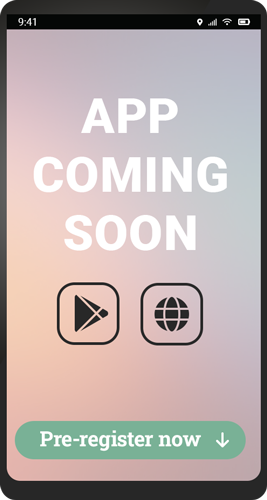
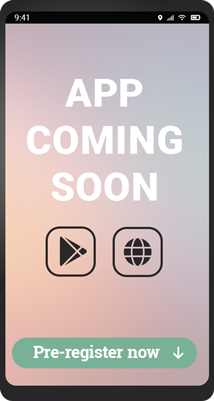
Add files via upload

diff --git a/index.html b/index.html
@@ -3,17 +3,17 @@
   <head>
     <meta charset="utf-8">
     <meta name="viewport" content="width=device-width, initial-scale=1">
-    <title>Bootstrap demo</title>
+    <title>Fitdate.app - date single athletes</title>
     <link href="https://cdn.jsdelivr.net/npm/bootstrap@5.2.3/dist/css/bootstrap.min.css" rel="stylesheet" integrity="sha384-rbsA2VBKQhggwzxH7pPCaAqO46MgnOM80zW1RWuH61DGLwZJEdK2Kadq2F9CUG65" crossorigin="anonymous">
     <link rel="stylesheet" type="text/css" href="style.css">
     <link rel="preconnect" href="https://fonts.googleapis.com"><link rel="preconnect" href="https://fonts.gstatic.com" crossorigin><link href="https://fonts.googleapis.com/css2?family=Roboto+Slab:wght@100;200;300;400;500;600;700;800;900&family=Roboto+Slab:wght@100;200;300;400;500;600;700;800;900&family=Roboto:ital,wght@0,100;0,300;0,400;0,500;0,700;0,900;1,100;1,300;1,400;1,500;1,700;1,900&display=swap" rel="stylesheet">
     <script src="https://kit.fontawesome.com/ab287e8f16.js" crossorigin="anonymous"></script>
   </head>
   <body>
-    <header>
-      <nav class="navbar navbar-dark bg-secondary" id="secondary-nav">
+    <header class="sticky-top">
+      <nav class="navbar navbar-dark bg-secondary py-1" id="secondary-nav">
         <div class="container d-flex justify-content-center">
-              <a class="nav-link" href="#pre-register">Pre-register now and get Fitdate free for life</a>
+              <a class="nav-link" href="#pre-register">Pre-register now: get Fitdate forever free</a>
         </div>
       </nav>
       <nav class="navbar navbar-expand-lg navbar-dark bg-primary sticky-top" id="primary-nav">
@@ -23,15 +23,15 @@
             <span class="navbar-toggler-icon"></span>
           </button>
           <div class="collapse navbar-collapse" id="navbarSupportedContent">
-            <ul class="navbar-nav ms-auto mb-2 mb-lg-0 ">
+            <ul class="navbar-nav ms-auto my-0">
               <li class="nav-item" id="primary-nav-pre-register">
                 <a class="nav-link bg-secondary btn" href="#pre-register">Pre-register</a>
               </li>
               <li class="nav-item" id="primary-nav-about">
-                <a class="nav-link" href="#about">About</a>
+                <a class="nav-link" href="#more-info">More info</a>
               </li>
               <li class="nav-item">
-                <a class="nav-link" href="#contact" id="primary-nav-contact">Contact</a>
+                <a class="nav-link" href="mailto:info@zeerzout.nl" id="primary-nav-contact">Contact</a>
               </li>
             </ul>
           </div>
@@ -40,30 +40,30 @@
     </header>
     <main>
       <section id="hero">
-        <div class="container-xl col-xxl-8 py-5">
-          <div class="row flex-lg-row-reverse align-items-center g-5">
-            <div class="col-10 col-sm-8 col-lg-6">
-              <a href="#pre-register"><img src="smartphone.png" class="d-block mx-lg-auto img-fluid" alt="smartphone app" loading="lazy" id="hero-img-smartphone"></a>
-            </div>
-            <div class="col-lg-6">
+        <div class="container py-5 px-3">
+          <div class="row d-flex flex-row align-items-center justify-content-center g-5">
+            <div class="col-lg-8 col-md-8 col-sm-12 col-xs-12">
               <h1 class="display-5 fw-bold lh-1 mb-3">Date single athletes</h1>
-              <p class="lead">Running, road cyling, padel, fitness, walking, dance & more. Explore profiles online & plan a fitdate.</p>
-              <div class="d-grid gap-2 d-md-flex justify-content-md-start">
+              <p class="lead">Running, road cyling, padel, fitness, walking, dance & more.<br> Explore profiles online & plan a fitdate.</p>
+              <div class="d-grid gap-2 d-md-flex justify-content-md-start" id="hero-buttons">
                <button type="button" class="btn btn-secondary btn-lg px-4" onclick="window.location.href='#pre-register';">Pre-register now</button>
                <button type="button" class="btn btn-outline-white btn-lg px-4" onclick="window.location.href='#more-info';">More info</button>
               </div>
+            </div>
+            <div class="col-lg-4 col-md-4 col-sm-12 col-xs-12 p-0 d-flex justify-content-center">
+              <a href="#pre-register"><img src="smartphone.png" class="" alt="smartphone app" loading="lazy" id="hero-img-smartphone"></a>
             </div>
           </div>
         </div>
       </section>
       <section id="pre-register">
-        <div class="container d-flex flex-column col-5">
-          <div id="pre-registration-offer-wrapper" class="d-flex flex-column align-items-center p-4 rounded">
-            <div id="offer-content" class="text-center">
+        <div class="container d-flex justify-content-center py-3">
+          <div id="pre-registration-offer-wrapper" class="m-2 p-4 rounded col-lg-8 col-md-8 col-sm-12 col-xs-12">
+            <div id="offer-content" class="row text-center">
               <h3 class="text-primary font-weight-bold">Limited time offer</h3>
               <h2 class="font-roboto-slab">Pre-register before May 31st 2023</h2>
             </div>
-            <div class=" bg-primary mt-4 p-5 rounded" id="pre-register">
+            <div class="row bg-primary mt-4 p-5 rounded" id="pre-register-form">
               <form id="form-pre-register">
                 <h3 class="text-white font-roboto-slab">Enjoy Fitdate.app free for life</h3>
                 <div class="row">
@@ -83,21 +83,28 @@
         </div>
       </section>
       <section id="more-info">
-        <div class="container d-flex flex-row no-wrap py-5 px-0">
-          <div class="col-md-4 mx-3">
-            <i class="fa-solid fa-circle-info"></i>
-            <h3 class="mt-3">Features</h3>
-            <p>Fitdate.app will help you find love, while also focussing on your shared love for sports. You can for instance filter on rock climbers, to find better matches. Imagine Tinder, but focussed on fit singles with a passion they want to share with each other.</p>
+        <div class="container px-4 overflow-hidden">
+          <div class="row d-flex flex-row justify-content-center">
+            <div class="col-lg-3 col-md-10 col-sm-10 m-2 px-4 pt-4 pb-2 border-light rounded">
+              <i class="fa-solid fa-circle-info"></i>
+              <h3 class="mt-3">Features</h3>
+              <p>Fitdate.app will help you find love, while also focussing on a shared love for sports. Filter on a sport, e.g. rock climbing, to find your match. Like Tinder, but for fit singles with a passion they want to share with each other.</p>
+            </div>
+            <div class="col-lg-3 col-md-10 col-sm-10 m-2 px-4 pt-4 pb-2 border-light rounded">
+              <i class="fa-brands fa-google-play"></i>
+              <h3 class="mt-3">App</h3>
+              <p>Our app will initially launch as a web app. After that we intend to develop an Android app. Next up will be Apple. Follow us to keep track of development updates. This way you'll be among the first to set up fun fitdates.</p>
+            </div>
+            <div class="col-lg-3 col-md-10 col-sm-10 m-2 px-4 pt-4 pb-2 border-light rounded">
+              <i class="fa-solid fa-tag"></i>
+              <h3 class="mt-3">Pricing</h3>
+              <p>We're still in early development, so we're not sure about price yet. We focus on creating awesome experiences first. We'll go to paid plans when our community is large enough. Make sure you pre-register to ensure your lifetime-free plan.</p>
+            </div>
           </div>
-          <div class="col-md-4 mx-3">
-            <i class="fa-brands fa-google-play"></i>
-            <h3 class="mt-3">App</h3>
-            <p>Our app will initially launch as a web app. After that we intend to develop an app for Android users. Next on our road map will be Apple users. Follow us to keep track of development updates. This way you'll be among the first to set up fun fitdates.</p>
-          </div>
-          <div class="col-md-4 mx-3">
-            <i class="fa-solid fa-tag"></i>
-            <h3 class="mt-3">Pricing</h3>
-            <p>We're still in early-stage development, so we're not sure about our pricing model yet. We're focussing on creating awesome experiences first. We will switch to paid plans when our community is large enough. So make sure you pre-register, to ensure your lifetime-free plan for Fitdate.app.</p>
+          <div class="row">
+            <div class="column py-4">
+              <p class="m-0 text-center" id="contact">Heb jij een goed idee voor Fitdate.app? Dat kan van alles zijn. Of gewoon een vraag? <a href="mailto:info@zeerzout.nl">Stuur ons een mail</a>.</p>
+            </div>
           </div>
         </div>
       </section>
@@ -106,7 +113,6 @@
         <div class="container py-3" id="copyright-area">
           <a href="https://www.zeerzout.nl/" target="_blank" class="m-0">© Copyright Zeer Zout 2022</a>
         </div>
-      </div>
       </footer>
     <script src="https://cdn.jsdelivr.net/npm/bootstrap@5.2.3/dist/js/bootstrap.bundle.min.js" integrity="sha384-kenU1KFdBIe4zVF0s0G1M5b4hcpxyD9F7jL+jjXkk+Q2h455rYXK/7HAuoJl+0I4" crossorigin="anonymous"></script>
   </body>

diff --git a/style.css b/style.css
@@ -1,9 +1,4 @@
 /* GENERAL ELEMENTS */
-h1, h2, h3, h4, h5, h6, p {
-    font-family: Roboto;
-    color: #464646 !important;
-}
-
 .container {
     max-width: 1100px;
 }
@@ -39,7 +34,25 @@ h1, h2, h3, h4, h5, h6, p {
     border: 2px solid white;
 }
 
+.border-light {
+    border: 1px solid #f9d0de !important;
+}
+
 /* TYPOGRAFIE */
+h1, h2, h3, h4, h5, h6, p {
+    font-family: Roboto;
+    color: #3b3b3b !important;
+}
+
+main a {
+    color:  #963254 !important;
+    text-decoration: none;
+    font-weight: 600;
+    transition: all 300ms;
+}
+main a:hover {
+    color:  #ce537c !important;
+}
 
 .font-roboto-slab {
     font-family: 'Roboto Slab';
@@ -47,6 +60,7 @@ h1, h2, h3, h4, h5, h6, p {
 .lead {
     font-weight: 500;
 }
+
 
 /* KLEUREN */
 .text-white {
@@ -72,13 +86,13 @@ h1, h2, h3, h4, h5, h6, p {
 }
 
 #secondary-nav a {
-    color: rgba(255, 255, 255, 0.753);
+    color: rgba(255, 255, 255, 0.753) !important;
     font-family: Roboto;
     transition: all 300ms;
     font-size: 0.9em;
 }
 #secondary-nav a:hover {
-    color: white;
+    color: white !important;
 }
 
 .navbar-brand {
@@ -86,11 +100,10 @@ h1, h2, h3, h4, h5, h6, p {
     font-size: 1.5rem;
 }
 #primary-nav-pre-register {
-    margin-right: 10px;
+    margin-right: 8px;
 }
 #primary-nav-pre-register a {
-    padding-right: 20px;
-    padding-left: 20px;
+    padding: 0.4rem 1rem;
 }
 
 /* FOOTER */
@@ -109,13 +122,19 @@ footer #copyright-area a:hover {
 /* MAIN */
 /* SECTION HERO*/
 #hero {
-    background-image: url("hero-background-2.jpg");
+    background: url(hero-background-2.jpg) no-repeat center top fixed; 
+    -webkit-background-size: cover;
+    -moz-background-size: cover;
+    -o-background-size: cover;
+    background-size: cover;
+  
 }
 #hero h1 {
     font-size: 5rem; 
 }
 
 #hero-img-smartphone {
+    max-width: 100%;
     transition: all 300ms ease-out;
 }
 #hero-img-smartphone:hover {
@@ -124,11 +143,7 @@ footer #copyright-area a:hover {
 
 /* SECTION PRE-REGISTER */
 #pre-register {
-    /* background-color: #fad1df; */
     background-color: #FBF6F6;
-}
-#pre-register .container {
-    padding: 3rem;
 }
 #pre-registration-offer-wrapper {
     background-color: #daf1e6;
@@ -170,4 +185,8 @@ form .row:last-of-type {
     padding: 1rem;
     background-color: white;
     border-radius: 100px;
+}
+
+#contact {
+    font-size: 0.9rem;
 }
